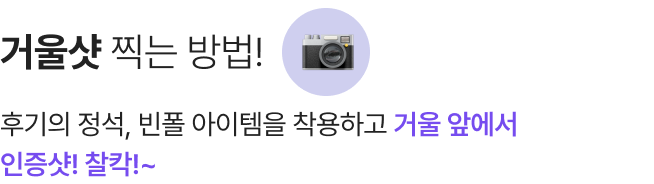
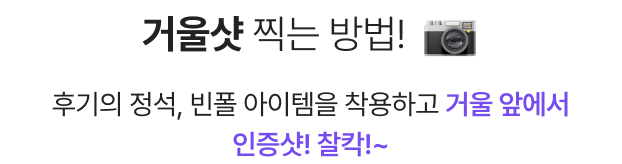
e

diff --git a/SSF/mobile_index_a.html b/SSF/mobile_index_a.html
@@ -128,7 +128,9 @@
 
     <div class="img-wrap">
       <div class="swiper-wrap">
-        <img src="static/images/a_4_title.png" style="width: 100%; margin-bottom: 24px;" data-aos="fade-up" data-aos-duration="500" data-aos-delay="200">
+        <div style="text-align: center;">
+          <img src="static/images/a_4_title.png" style="width: 100%; margin-bottom: 24px;" data-aos="fade-up" data-aos-duration="500" data-aos-delay="200">
+        </div>
         <div data-event="slickToGo" data-aos="fade-up" data-aos-duration="500" data-aos-delay="300">
           <img src="static/images/a/a_5_2_1.png" style="width: 100%;" class="img-1">
           <img src="static/images/a/a_5_2_2.png" style="width: 100%;" class="img-2">
@@ -138,20 +140,21 @@
             <div class="swiper-slide">
               <div class="box">
                 <span>
-                  <img src="static/images/a_4_1.png">
+                  <img src="static/images/a/a_5_3_1.png">
                 </span>
               </div>
+              <img src="static/images/a/a_5_4_1.png" style="width: 100%; margin-top: 12px;">
             </div>
             <div class="swiper-slide">
               <div class="box">
                 <span>
-                  <img src="static/images/a_4_1.png">
+                  <img src="static/images/a/a_5_3_2.png">
                 </span>
               </div>
+              <img src="static/images/a/a_5_4_2.png" style="width: 100%; margin-top: 12px;">
             </div>
           </div>
         </div>
-        <img src="static/images/a_4_text.png" style="width: 100%;" data-aos="fade-up" data-aos-duration="500" data-aos-delay="100">
       </div>
     </div>
 

diff --git a/SSF/static/js/front.js b/SSF/static/js/front.js
@@ -18,6 +18,19 @@ if (window.console == undefined) { console = { log: () => { } } }
 				simulateTouch: true,
 				loop: false,
 				speed: 800,
+				on: {
+					slideChange: function (swiper, activeIndex) {
+						//console.log(swiper.activeIndex);
+						if(swiper.activeIndex == 0){
+							console.log(0);
+							//document.querySelector('[data-event="slickToGo"]').classList.add('a');
+						}else if(swiper.activeIndex == 1){
+							console.log(1);
+							//document.querySelector('[data-event="slickToGo"]').classList.remove('a');
+						}
+						//reviewAtype.slideTo((swiper.activeIndex), (1000), false)
+					}
+				}
 			});
 
 			document.querySelector('[data-event="slickToGo"]').addEventListener('click', (e) => {
